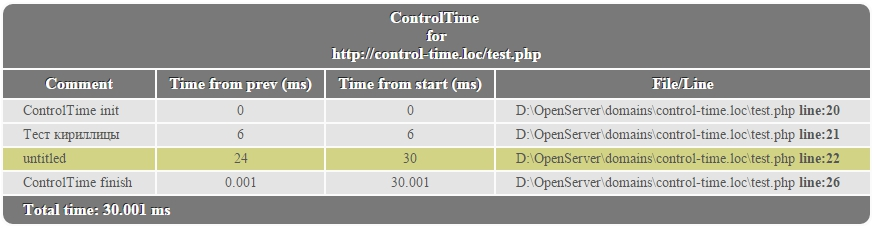
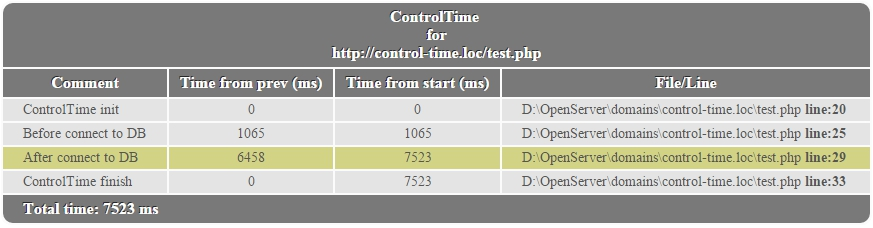
refactoring

diff --git a/src/Control/ControlTime.php b/src/Control/ControlTime.php
@@ -81,15 +81,15 @@ class ControlTime {
         $backtrace = debug_backtrace();
         $backtrace = end($backtrace);
 
-        self::$wayPoints['total_time'] = round(($curTime - self::$timeStart), 3);
+        self::$wayPoints['total_time'] = round(($curTime - self::$timeStart), 3) * 1000;
 
         self::$wayPoints[] = [
             "comment"   => (!empty($comment)) ? $comment : "untitled",
             "file"      => $backtrace['file'],
             "line"      => $backtrace['line'],
             "time"      => $curTime,
-            "from_prev" => round(($curTime - self::$timePrev), 3),
-            "from_start"=> round(($curTime - self::$timeStart), 3)
+            "from_prev" => round(($curTime - self::$timePrev), 3) * 1000,
+            "from_start"=> round(($curTime - self::$timeStart), 3) * 1000
         ];
         self::$timePrev = $curTime;
     }
